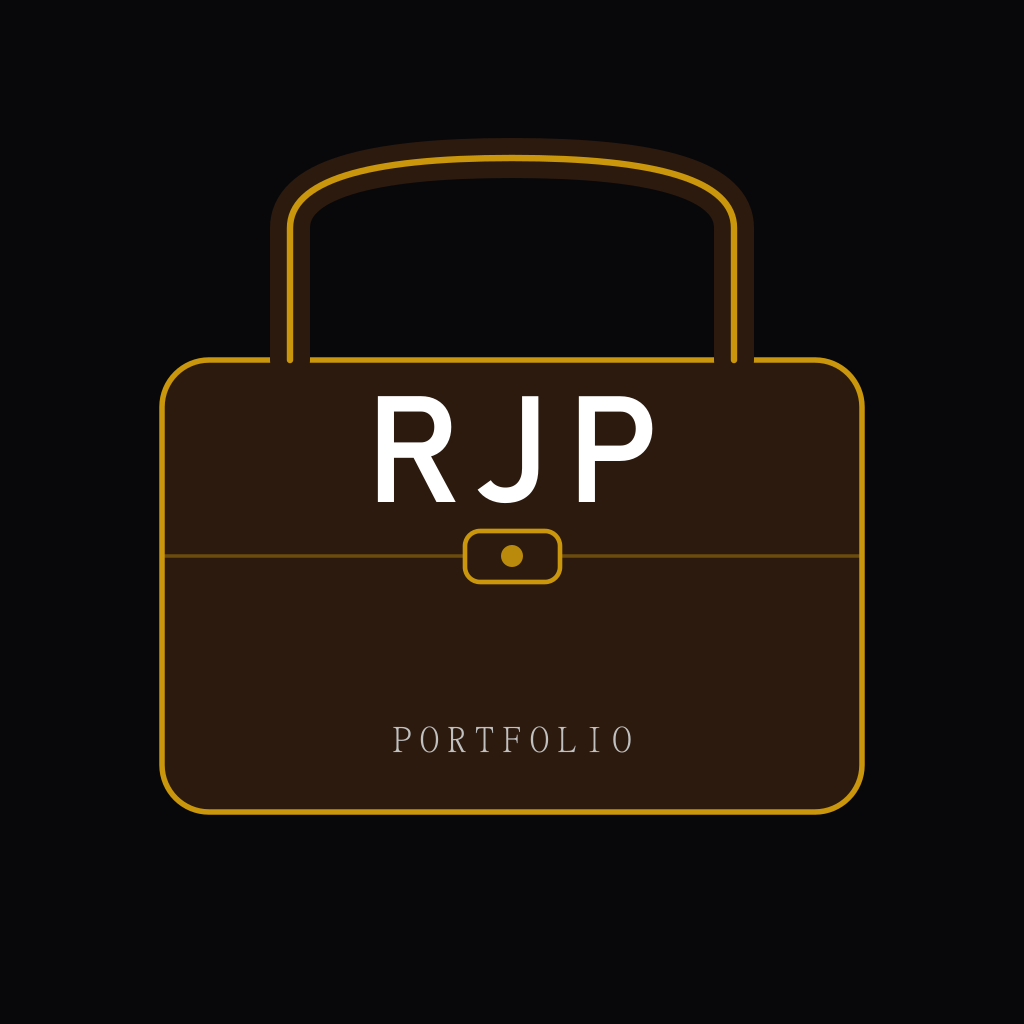
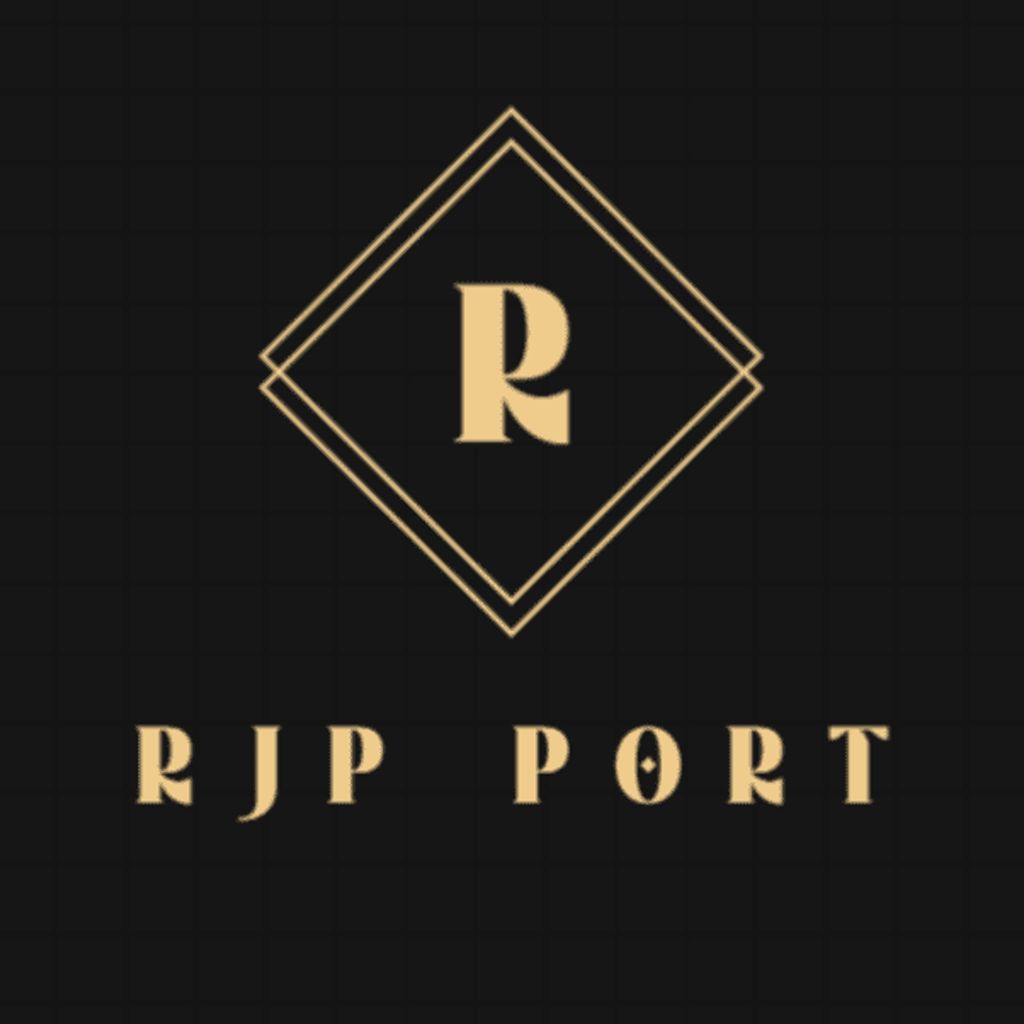
release production build

Changed region(s): [[0.125, 0.0938, 0.875, 0.8125]]

diff --git a/packages/mobile/app/(tabs)/index.tsx b/packages/mobile/app/(tabs)/index.tsx
@@ -17,7 +17,7 @@ export default function HomeScreen() {
         showsVerticalScrollIndicator={false}
       >
         <Image
-          source={require('../../assets/briefcase-clean.png')}
+          source={require('../../assets/rjp_port.png')}
           style={styles.icon}
           resizeMode="contain"
         />